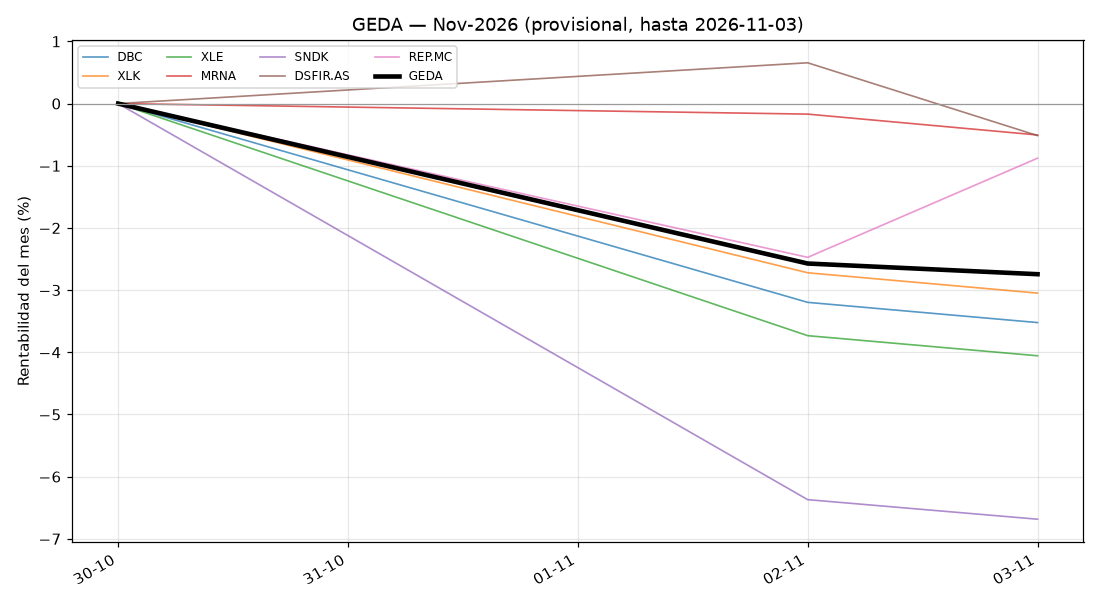
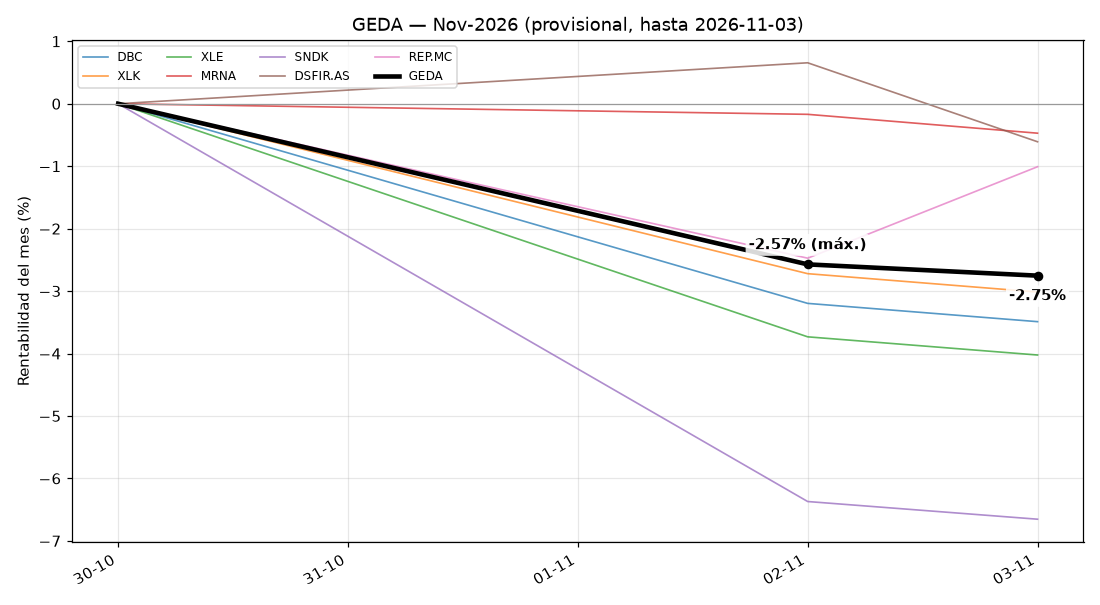
Informe GEDA 2026-11-03

diff --git a/informe/README.md b/informe/README.md
@@ -1,80 +1,7 @@
-# GEDA — seguimiento diario
+_Datos hasta el cierre del 03-11-2026. Generado el 03-11-2026 11:17 (hora de Madrid). Rentabilidades en EUR, sin comisiones ni impuestos._
 
-_Datos hasta el cierre del 2026-11-03. Generado el 03-11-2026 10:56 (hora de Madrid). Rentabilidades en EUR, sin comisiones ni impuestos._
+<h2>GEDA (en EUR)</h2><table border='1' cellpadding='6' cellspacing='0' style='border-collapse:collapse;'><tr><th>COMPONENTES</th><th>dec-26<br>(previsión)</th><th>nov-26<br>(provisional)</th><th>oct-26</th><th>sep-26</th></tr><tr><td><b>Indices</b></td><td style='text-align:center; vertical-align:middle;'><div style='color:#999999; font-weight:bold;'>DBC<br>-</div></td><td style='text-align:center; vertical-align:middle;'><div style='color:#FF0000; font-weight:bold;'>DBC<br>-3.20%</div></td><td style='text-align:center; vertical-align:middle;'><div style='color:#008000; font-weight:bold;'>DBC<br>5.46%</div></td><td style='text-align:center; vertical-align:middle;'><div style='color:#008000; font-weight:bold;'>DBC<br>5.52%</div></td></tr><tr><td><b>Sectores</b></td><td style='text-align:center; vertical-align:middle;'><div style='color:#999999; font-weight:bold;'>XLK<br>-</div><div style='color:#999999; font-weight:bold;'>XLE<br>-</div></td><td style='text-align:center; vertical-align:middle;'><div style='color:#FF0000; font-weight:bold;'>XLK<br>-2.72%</div><div style='color:#FF0000; font-weight:bold;'>XLE<br>-3.73%</div></td><td style='text-align:center; vertical-align:middle;'><div style='color:#FF0000; font-weight:bold;'>XLK<br>-7.00%</div><div style='color:#008000; font-weight:bold;'>XLE<br>15.46%</div></td><td style='text-align:center; vertical-align:middle;'><div style='color:#008000; font-weight:bold;'>XLK<br>7.38%</div><div style='color:#FF0000; font-weight:bold;'>XLE<br>-1.16%</div></td></tr><tr><td><b>Acciones USA</b></td><td style='text-align:center; vertical-align:middle;'><div style='color:#999999; font-weight:bold;'>MRNA<br>-</div><div style='color:#999999; font-weight:bold;'>SNDK<br>-</div></td><td style='text-align:center; vertical-align:middle;'><div style='color:#FF0000; font-weight:bold;'>MRNA<br>-0.17%</div><div style='color:#FF0000; font-weight:bold;'>SNDK<br>-6.37%</div></td><td style='text-align:center; vertical-align:middle;'><div style='color:#008000; font-weight:bold;'>MRNA<br>16.76%</div><div style='color:#FF0000; font-weight:bold;'>SNDK<br>-32.92%</div></td><td style='text-align:center; vertical-align:middle;'><div style='color:#008000; font-weight:bold;'>LITE<br>8.50%</div><div style='color:#008000; font-weight:bold;'>SNDK<br>13.48%</div></td></tr><tr><td><b>Acciones EUROPA</b></td><td style='text-align:center; vertical-align:middle;'><div style='color:#999999; font-weight:bold;'>DSFIR.AS<br>-</div><div style='color:#999999; font-weight:bold;'>REP.MC<br>-</div></td><td style='text-align:center; vertical-align:middle;'><div style='color:#FF0000; font-weight:bold;'>DSFIR.AS<br>-0.61%</div><div style='color:#FF0000; font-weight:bold;'>REP.MC<br>-1.07%</div></td><td style='text-align:center; vertical-align:middle;'><div style='color:#FF0000; font-weight:bold;'>ASML.AS<br>-11.40%</div><div style='color:#FF0000; font-weight:bold;'>STMPA.PA<br>-10.67%</div></td><td style='text-align:center; vertical-align:middle;'><div style='color:#008000; font-weight:bold;'>ASML.AS<br>9.99%</div><div style='color:#008000; font-weight:bold;'>STMPA.PA<br>9.21%</div></td></tr><tr style='background-color:#cce5ff;'><td><b>TOTAL</b></td><td style='text-align:center; font-weight:bold; color:#999999;'>-</td><td style='text-align:center; font-weight:bold; color:#FF0000;'>-2.55%</td><td style='text-align:center; font-weight:bold; color:#FF0000;'>-3.47%</td><td style='text-align:center; font-weight:bold; color:#008000;'>7.56%</td></tr></table><h3>Previsión de cambios para dec-26</h3><p><i>Provisional: calculada con datos hasta hoy. Puede cambiar hasta el cierre de mes.</i></p><ul><li><i>Sin cambios previstos para el próximo mes</i></li></ul><h3>Ranking de votos (top 5, máximo 276 por valor)</h3><p><i>✔ = elegido. Margen = votos del último elegido menos los del primero que queda fuera.</i></p><table border='1' cellpadding='6' cellspacing='0' style='border-collapse:collapse;'><tr><th>COMPONENTE</th><th>dec-26<br>(previsión)</th><th>nov-26<br>(oficial)</th><th>oct-26</th><th>sep-26</th></tr><tr><td><b>Indices</b></td><td style='vertical-align:top;'><div style='font-weight:bold;'>✔ DBC: 271</div><div style='color:#666666;'>GLD: 3</div><div style='color:#666666;'>VNQ: 2</div><div style='color:#666666;'>SPY: 1</div><div style='color:#666666;'>AGG: 0</div><div style='color:#008000; margin-top:4px;'>margen 1º-2º: 268</div></td><td style='vertical-align:top;'><div style='font-weight:bold;'>✔ DBC: 272</div><div style='color:#666666;'>VNQ: 2</div><div style='color:#666666;'>GLD: 1</div><div style='color:#666666;'>QQQ: 1</div><div style='color:#666666;'>SPY: 1</div><div style='color:#008000; margin-top:4px;'>margen 1º-2º: 270</div></td><td style='vertical-align:top;'><div style='font-weight:bold;'>✔ DBC: 243</div><div style='color:#666666;'>QQQ: 19</div><div style='color:#666666;'>GLD: 14</div><div style='color:#666666;'>IWM: 3</div><div style='color:#666666;'>SPY: 3</div><div style='color:#008000; margin-top:4px;'>margen 1º-2º: 224</div></td><td style='vertical-align:top;'><div style='font-weight:bold;'>✔ DBC: 210</div><div style='color:#666666;'>GLD: 38</div><div style='color:#666666;'>VGK: 17</div><div style='color:#666666;'>QQQ: 12</div><div style='color:#666666;'>IWM: 4</div><div style='color:#008000; margin-top:4px;'>margen 1º-2º: 172</div></td></tr><tr><td><b>Sectores</b></td><td style='vertical-align:top;'><div style='font-weight:bold;'>✔ XLE: 253</div><div style='font-weight:bold;'>✔ XLK: 193</div><div style='color:#666666;'>XLV: 92</div><div style='color:#666666;'>XLP: 9</div><div style='color:#666666;'>XLF: 4</div><div style='color:#008000; margin-top:4px;'>margen 2º-3º: 101</div></td><td style='vertical-align:top;'><div style='font-weight:bold;'>✔ XLE: 267</div><div style='font-weight:bold;'>✔ XLK: 216</div><div style='color:#666666;'>XLV: 67</div><div style='color:#666666;'>XLP: 2</div><div style='color:#666666;'>XLB: 0</div><div style='color:#008000; margin-top:4px;'>margen 2º-3º: 149</div></td><td style='vertical-align:top;'><div style='font-weight:bold;'>✔ XLK: 269</div><div style='font-weight:bold;'>✔ XLE: 228</div><div style='color:#666666;'>XLV: 54</div><div style='color:#666666;'>XLC: 2</div><div style='color:#666666;'>XLF: 1</div><div style='color:#008000; margin-top:4px;'>margen 2º-3º: 174</div></td><td style='vertical-align:top;'><div style='font-weight:bold;'>✔ XLK: 259</div><div style='font-weight:bold;'>✔ XLE: 256</div><div style='color:#666666;'>XLF: 23</div><div style='color:#666666;'>XLV: 17</div><div style='color:#666666;'>XLI: 10</div><div style='color:#008000; margin-top:4px;'>margen 2º-3º: 233</div></td></tr><tr><td><b>Acciones USA</b></td><td style='vertical-align:top;'><div style='font-weight:bold;'>✔ MRNA: 216</div><div style='font-weight:bold;'>✔ SNDK: 162</div><div style='color:#666666;'>ACN: 59</div><div style='color:#666666;'>MU: 42</div><div style='color:#666666;'>DELL: 36</div><div style='color:#008000; margin-top:4px;'>margen 2º-3º: 103</div></td><td style='vertical-align:top;'><div style='font-weight:bold;'>✔ MRNA: 192</div><div style='font-weight:bold;'>✔ SNDK: 180</div><div style='color:#666666;'>MU: 55</div><div style='color:#666666;'>DELL: 39</div><div style='color:#666666;'>LITE: 37</div><div style='color:#008000; margin-top:4px;'>margen 2º-3º: 125</div></td><td style='vertical-align:top;'><div style='font-weight:bold;'>✔ SNDK: 200</div><div style='font-weight:bold;'>✔ MRNA: 87</div><div style='color:#666666;'>DELL: 81</div><div style='color:#666666;'>LITE: 79</div><div style='color:#666666;'>MU: 60</div><div style='color:#FF0000; margin-top:4px;'>margen 2º-3º: 6 ⚠ AJUSTADO</div></td><td style='vertical-align:top;'><div style='font-weight:bold;'>✔ SNDK: 209</div><div style='font-weight:bold;'>✔ LITE: 110</div><div style='color:#666666;'>DELL: 90</div><div style='color:#666666;'>MU: 58</div><div style='color:#666666;'>MRNA: 39</div><div style='color:#FF0000; margin-top:4px;'>margen 2º-3º: 20 ⚠ AJUSTADO</div></td></tr><tr><td><b>Acciones EUROPA</b></td><td style='vertical-align:top;'><div style='font-weight:bold;'>✔ REP.MC: 217</div><div style='font-weight:bold;'>✔ DSFIR.AS: 135</div><div style='color:#666666;'>STMPA.PA: 64</div><div style='color:#666666;'>QIA.DE: 40</div><div style='color:#666666;'>HOT.DE: 39</div><div style='color:#008000; margin-top:4px;'>margen 2º-3º: 71</div></td><td style='vertical-align:top;'><div style='font-weight:bold;'>✔ REP.MC: 228</div><div style='font-weight:bold;'>✔ DSFIR.AS: 122</div><div style='color:#666666;'>STMPA.PA: 78</div><div style='color:#666666;'>HOT.DE: 44</div><div style='color:#666666;'>SAP.DE: 35</div><div style='color:#008000; margin-top:4px;'>margen 2º-3º: 44</div></td><td style='vertical-align:top;'><div style='font-weight:bold;'>✔ STMPA.PA: 155</div><div style='font-weight:bold;'>✔ ASML.AS: 114</div><div style='color:#666666;'>REP.MC: 97</div><div style='color:#666666;'>DSFIR.AS: 71</div><div style='color:#666666;'>MB.MI: 55</div><div style='color:#FF0000; margin-top:4px;'>margen 2º-3º: 17 ⚠ AJUSTADO</div></td><td style='vertical-align:top;'><div style='font-weight:bold;'>✔ STMPA.PA: 167</div><div style='font-weight:bold;'>✔ ASML.AS: 91</div><div style='color:#666666;'>DSFIR.AS: 77</div><div style='color:#666666;'>MB.MI: 67</div><div style='color:#666666;'>SPM.MI: 47</div><div style='color:#FF0000; margin-top:4px;'>margen 2º-3º: 14 ⚠ AJUSTADO</div></td></tr></table>
 
-## 1. Previsión para Dic-2026
+<h3>Rentabilidad diaria de Nov-2026 (provisional)</h3>
 
-_Calculada como si el mes terminase hoy. Puede cambiar hasta el último cierre del mes._
-
-| Bloque | Posiciones previstas | Cambios frente al mes en curso |
-|---|---|---|
-| Indices | DBC | sin cambios |
-| Sectores | XLK, XLE | sin cambios |
-| Acciones USA | MRNA, SNDK | sin cambios |
-| Acciones EUROPA | DSFIR.AS, REP.MC | sin cambios |
-
-## 2. Mes en curso: Nov-2026 (provisional)
-
-**Rentabilidad GEDA: -2.51%**
-
-| Bloque | Posición | Peso | Rentabilidad |
-|---|---|---|---|
-| Indices | DBC | 14.3% | -3.20% |
-| Sectores | XLK | 14.3% | -2.72% |
-| Sectores | XLE | 14.3% | -3.73% |
-| Acciones USA | MRNA | 14.3% | -0.17% |
-| Acciones USA | SNDK | 14.3% | -6.37% |
-| Acciones EUROPA | DSFIR.AS | 14.3% | -0.52% |
-| Acciones EUROPA | REP.MC | 14.3% | -0.88% |
-
-![Rentabilidad diaria del mes](geda_mes_actual.png)
-
-<details><summary>Rentabilidad acumulada día a día</summary>
-
-| Día | GEDA |
-|---|---|
-| 02-11 | -2.57% |
-| 03-11 | -2.74% |
-
-</details>
-
-## 3. Meses anteriores cerrados
-
-## Oct-2026
-
-**Rentabilidad GEDA: -2.34%**
-
-| Bloque | Posición | Peso | Rentabilidad |
-|---|---|---|---|
-| Indices | DBC | 14.3% | +5.46% |
-| Sectores | XLK | 14.3% | -7.00% |
-| Sectores | XLE | 14.3% | +15.46% |
-| Acciones USA | MRNA | 14.3% | +16.76% |
-| Acciones USA | SNDK | 14.3% | -32.92% |
-| Acciones EUROPA | HOT.DE | 14.3% | -3.51% |
-| Acciones EUROPA | STMPA.PA | 14.3% | -10.67% |
-
-## Sep-2026
-
-**Rentabilidad GEDA: +7.56%**
-
-| Bloque | Posición | Peso | Rentabilidad |
-|---|---|---|---|
-| Indices | DBC | 14.3% | +5.52% |
-| Sectores | XLK | 14.3% | +7.38% |
-| Sectores | XLE | 14.3% | -1.16% |
-| Acciones USA | LITE | 14.3% | +8.50% |
-| Acciones USA | SNDK | 14.3% | +13.48% |
-| Acciones EUROPA | ASML.AS | 14.3% | +9.99% |
-| Acciones EUROPA | STMPA.PA | 14.3% | +9.21% |
-
-## 4. Votos (top 5)
-
-| Bloque | Dic-2026 (previsión) | Nov-2026 (oficial) | Oct-2026 | Sep-2026 |
-|---|---|---|---|---|
-| **Indices** | ✔ DBC 271<br>GLD 3<br>VNQ 2<br>SPY 1<br>AGG 0<br>_margen 1º-2º: 268_ | ✔ DBC 272<br>VNQ 2<br>GLD 1<br>QQQ 1<br>SPY 1<br>_margen 1º-2º: 270_ | ✔ DBC 243<br>QQQ 19<br>GLD 14<br>IWM 3<br>SPY 3<br>_margen 1º-2º: 224_ | ✔ DBC 210<br>GLD 38<br>VGK 17<br>QQQ 12<br>IWM 4<br>_margen 1º-2º: 172_ |
-| **Sectores** | ✔ XLE 253<br>✔ XLK 193<br>XLV 92<br>XLP 9<br>XLF 4<br>_margen 2º-3º: 101_ | ✔ XLE 267<br>✔ XLK 216<br>XLV 67<br>XLP 2<br>XLB 0<br>_margen 2º-3º: 149_ | ✔ XLK 269<br>✔ XLE 228<br>XLV 54<br>XLC 2<br>XLF 1<br>_margen 2º-3º: 174_ | ✔ XLK 259<br>✔ XLE 256<br>XLF 23<br>XLV 17<br>XLI 10<br>_margen 2º-3º: 233_ |
-| **Acciones USA** | ✔ MRNA 216<br>✔ SNDK 162<br>ACN 59<br>MU 42<br>DELL 36<br>_margen 2º-3º: 103_ | ✔ MRNA 192<br>✔ SNDK 180<br>MU 55<br>DELL 39<br>LITE 37<br>_margen 2º-3º: 125_ | ✔ SNDK 200<br>✔ MRNA 87<br>DELL 81<br>LITE 79<br>MU 60<br>_margen 2º-3º: 6 ⚠ AJUSTADO_ | ✔ SNDK 209<br>✔ LITE 110<br>DELL 90<br>MU 58<br>MRNA 39<br>_margen 2º-3º: 20 ⚠ AJUSTADO_ |
-| **Acciones EUROPA** | ✔ REP.MC 217<br>✔ DSFIR.AS 135<br>STMPA.PA 64<br>QIA.DE 40<br>HOT.DE 39<br>_margen 2º-3º: 71_ | ✔ REP.MC 228<br>✔ DSFIR.AS 122<br>STMPA.PA 78<br>HOT.DE 44<br>SAP.DE 35<br>_margen 2º-3º: 44_ | ✔ STMPA.PA 149<br>✔ HOT.DE 96<br>ASML.AS 85<br>DSFIR.AS 81<br>MB.MI 59<br>_margen 2º-3º: 11 ⚠ AJUSTADO_ | ✔ STMPA.PA 167<br>✔ ASML.AS 91<br>DSFIR.AS 77<br>MB.MI 67<br>SPM.MI 47<br>_margen 2º-3º: 14 ⚠ AJUSTADO_ |
-
-_Máximo 276 votos por valor. ✔ = elegido. AJUSTADO = margen pequeño entre el último elegido y el primero que queda fuera._
+![Rentabilidad diaria](geda_mes_actual.png)
